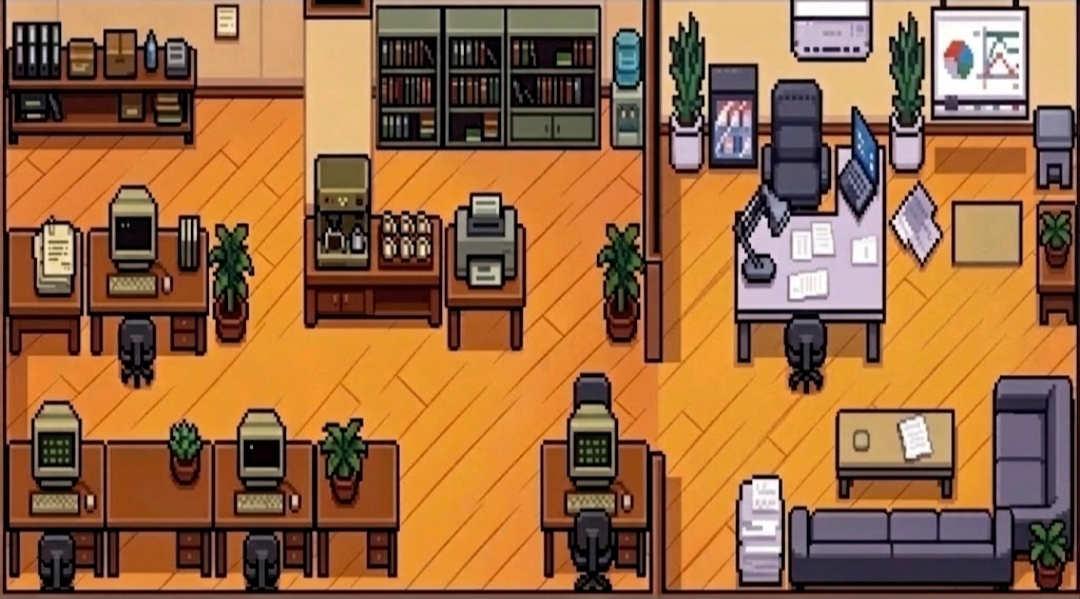
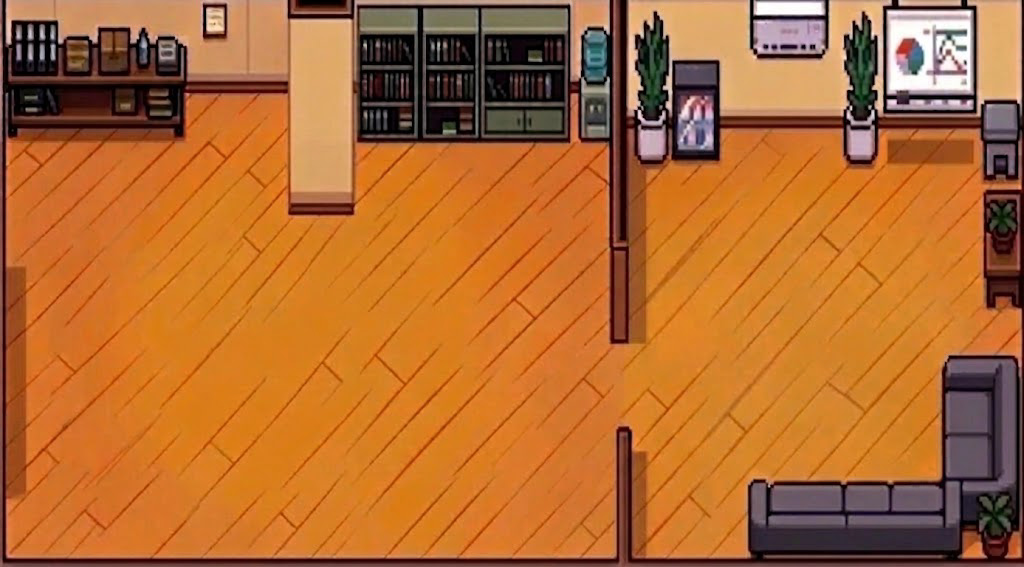
Camadas transparentes

diff --git a/code/Collision.py b/code/Collision.py
@@ -1,0 +1,111 @@
+import pygame
+
+# =====================================================
+# TAMANHO DA TELA
+# =====================================================
+
+SCREEN_WIDTH = 1024
+SCREEN_HEIGHT = 567
+
+
+# =====================================================
+# PAREDES
+# =====================================================
+
+WALLS = [
+
+    # Superior
+    pygame.Rect(0, 0, SCREEN_WIDTH, 40),
+
+    # Esquerda
+    pygame.Rect(0, 0, 10, SCREEN_HEIGHT),
+
+    # Direita
+    pygame.Rect(SCREEN_WIDTH - 8, 0, 8, SCREEN_HEIGHT),
+
+    # Inferior
+    pygame.Rect(0, SCREEN_HEIGHT - 15, SCREEN_WIDTH, 15),
+
+    # Pilar central
+    pygame.Rect(291, -60, 60, 215),
+
+    # Parede divisória (parte de cima)
+    pygame.Rect(607, -44, 19, 325),
+
+    # Parede divisória (parte de baixo)
+    pygame.Rect(618, 440, 19, 136),
+
+]
+
+
+# =====================================================
+# MÓVEIS
+# =====================================================
+
+FURNITURE = [
+
+    # -------------------------
+    # Estante com binders (canto superior esquerdo)
+    # -------------------------
+    pygame.Rect(0, -30, 190, 130),
+
+    # -------------------------
+    # Estante de livros (verde)
+    # -------------------------
+    pygame.Rect(355, -30, 212, 130),
+
+    # -------------------------
+    # Bebedouro
+    # -------------------------
+    pygame.Rect(578, -30, 38, 130),
+
+    # -------------------------
+    # Planta (esquerda, depois da divisória)
+    # -------------------------
+    pygame.Rect(630, 4, 40, 120),
+
+    # -------------------------
+    # Quadro pequeno / mural colorido
+    # -------------------------
+    pygame.Rect(670, -6, 52, 110),
+
+    # -------------------------
+    # Planta (direita, antes do quadro grande)
+    # -------------------------
+    pygame.Rect(845, -7, 40, 120),
+
+    # -------------------------
+    # Quadro grande (gráfico)
+    # -------------------------
+    pygame.Rect(900, -60, 85, 160),
+
+    # -------------------------
+    # Armário/lixeira cinza (borda direita)
+    # -------------------------
+    pygame.Rect(985, 40, 39, 100),
+
+    # -------------------------
+    # Planta sob o armário (borda direita)
+    # -------------------------
+    pygame.Rect(985, 170, 39, 90),
+
+    # -------------------------
+    # Sofá maior (sala do chefe)
+    # -------------------------
+    pygame.Rect(740, 475, 220, 80),
+
+    # -------------------------
+    # Sofá menor
+    # -------------------------
+    pygame.Rect(932, 350, 95, 167),
+
+
+
+]
+
+
+# =====================================================
+# LISTA GERAL
+# =====================================================
+
+COLLIDERS = WALLS + FURNITURE

diff --git a/code/Furniture.py b/code/Furniture.py
@@ -1,0 +1,32 @@
+import pygame
+
+
+class Furniture:
+
+    def __init__(self, image_path, x, y, collision):
+
+        self.image = pygame.image.load(image_path).convert_alpha()
+
+        self.x = x
+        self.y = y
+
+        self.rect = self.image.get_rect(topleft=(x, y))
+
+        # collision = (offset_x, offset_y, largura, altura)
+
+        self.collision = pygame.Rect(
+
+            x + collision[0],
+            y + collision[1],
+            collision[2],
+            collision[3]
+
+        )
+
+    def draw(self, window):
+
+        window.blit(self.image, (self.x, self.y))
+
+    def get_collision(self):
+
+        return self.collision

diff --git a/code/Game.py b/code/Game.py
@@ -1,10 +1,13 @@
 import pygame
 
+
 from code.Const import *
 from code.Player import Player
 from code.Boss import Boss
 from code.Item import Item
 from code.Request import Request
+from code.Collision import COLLIDERS
+
 
 
 class Game:
@@ -200,6 +203,18 @@ class Game:
 
         self.draw_hud()
 
+        # ==========================================
+        # MOSTRAR COLISÕES
+        # ==========================================
+
+        for collider in COLLIDERS:
+            pygame.draw.rect(
+                self.window,
+                (255, 0, 0),
+                collider,
+                2
+            )
+
         pygame.display.flip()
 
     # ----------------------------------------------------
@@ -213,6 +228,15 @@ class Game:
             self.clock.tick(FPS)
 
             self.player.move()
+
+            player_rect = self.player.get_rect()
+
+            for wall in COLLIDERS:
+
+                if player_rect.colliderect(wall):
+                    self.player.undo_move()
+
+                    break
 
             self.boss.update()
 

diff --git a/code/Player.py b/code/Player.py
@@ -14,6 +14,9 @@ class Player:
         self.x = 90
         self.y = 220
 
+        self.old_x = self.x
+        self.old_y = self.y
+
         self.speed = 4
 
         self.width = 40
@@ -134,6 +137,9 @@ class Player:
 
     def move(self):
 
+        self.old_x = self.x
+        self.old_y = self.y
+
         keys = pygame.key.get_pressed()
 
         self.moving = False
@@ -233,3 +239,8 @@ class Player:
         self.carrying_item = False
 
         self.current_item = None
+
+    def undo_move(self):
+
+        self.x = self.old_x
+        self.y = self.old_y

diff --git a/code/Victory.py b/code/Victory.py
@@ -59,6 +59,14 @@ class Victory:
             self.draw_button(self.retry_rect, "Jogar de novo", mouse)
             self.draw_button(self.menu_rect, "Voltar ao Menu", mouse)
 
+            for collider in COLLIDERS:
+                pygame.draw.rect(
+                    self.window,
+                    (255, 0, 0),
+                    collider,
+                    2
+                )
+
             pygame.display.flip()
 
             for event in pygame.event.get():